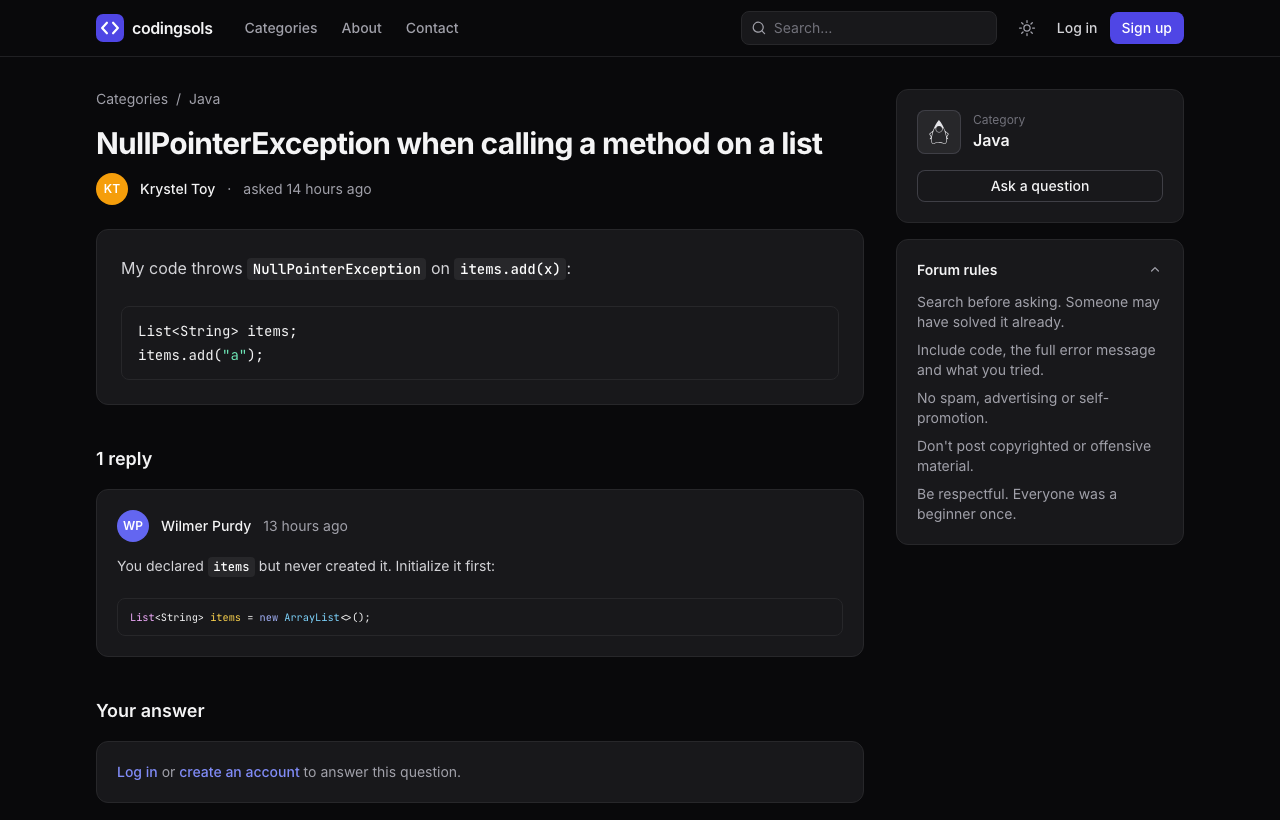
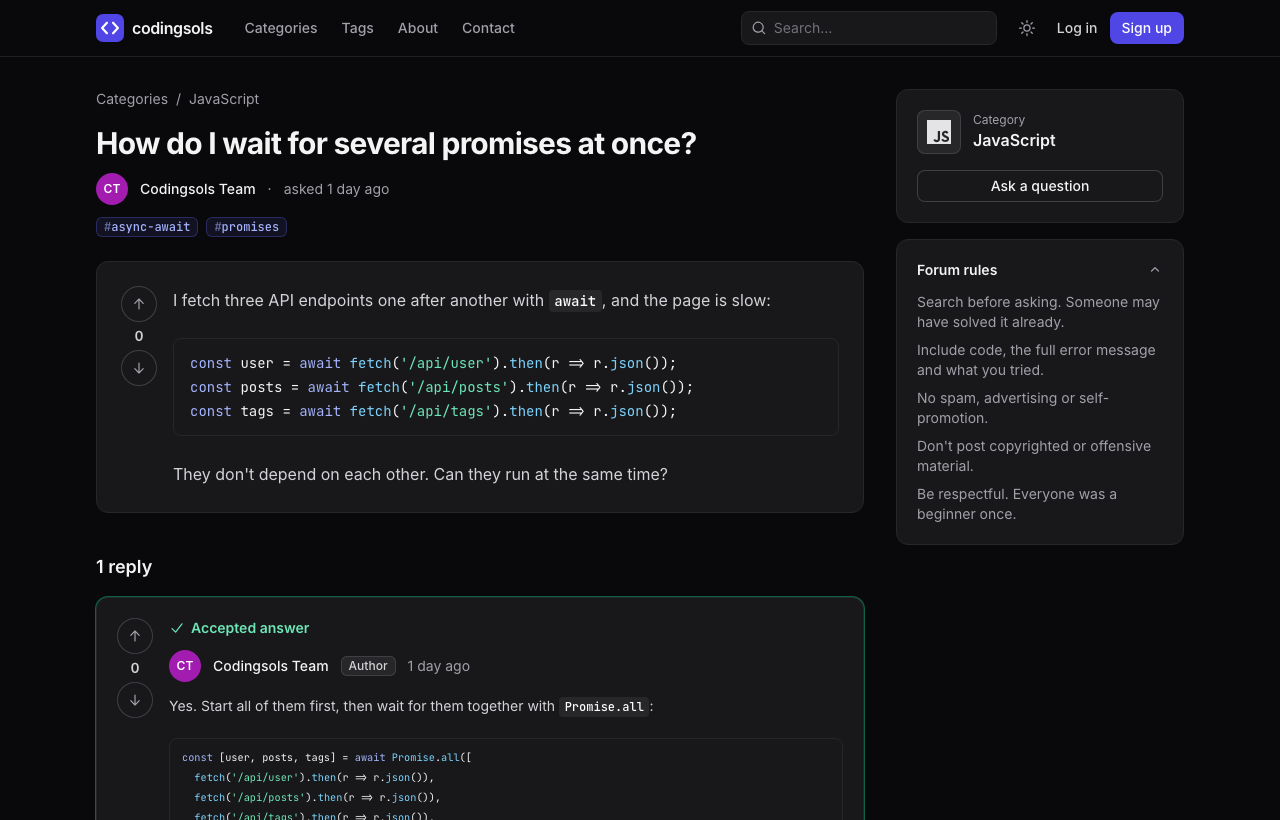
Refresh README for the live site
Link the live site, point the roadmap at the current milestone instead
of features that have shipped, expand the project structure section and
retake the screenshots with realistic content.

diff --git a/README.md b/README.md
@@ -2,6 +2,8 @@
 
 A community forum where programmers ask questions, share answers and help each other level up.
 
+**Live site: [codingsols.vercel.app](https://codingsols.vercel.app)**
+
 [![CI](https://github.com/nevil-codes/codingsols/actions/workflows/ci.yml/badge.svg)](https://github.com/nevil-codes/codingsols/actions/workflows/ci.yml)
 [![License: MIT](https://img.shields.io/badge/license-MIT-blue.svg)](LICENSE)
 
@@ -35,7 +37,8 @@ A community forum where programmers ask questions, share answers and help each o
 | Database | SQLite locally, PostgreSQL in production (tested in CI on both) |
 | Testing | Pest, Laravel Pint |
 | CI | GitHub Actions: Pint, tests on SQLite and PostgreSQL, Docker image smoke test |
-| Deployment | Vercel (serverless PHP) or Docker (Nginx + PHP-FPM, queue worker, scheduler) |
+| Email | Resend |
+| Deployment | Vercel (serverless PHP) with Neon PostgreSQL, or Docker (Nginx + PHP-FPM, queue worker, scheduler) |
 
 ## Getting started
 
@@ -108,18 +111,23 @@ vendor/bin/pint --test  # code style check
 ## Project structure
 
 ```
-app/Http/Controllers   Home, categories, threads, comments, search, contact
-app/Models             Category, Thread, Comment, ContactMessage, User
-app/Policies           Who can edit or delete threads and comments
-database/seeders       Categories, plus demo content for local development
-resources/views        Blade pages and reusable components (resources/views/components)
-tests/Feature          HTTP tests for every feature
-legacy/                The original plain-PHP version, kept for reference
+app/Http/Controllers         Forum pages: categories, threads, replies, votes, tags, search, contact
+app/Http/Controllers/Admin   Admin area: reports queue, categories, contact messages
+app/Http/Middleware          Security headers, honeypot and Turnstile spam checks
+app/Models                   Category, Thread, Comment, Tag, Vote, Report, ContactMessage, User
+app/Policies                 Who can edit, delete, vote on, accept, lock or report what
+app/Search                   Scout engine that matches every search word in titles, bodies and replies
+database/seeders             Categories, plus demo content for local development
+resources/views              Blade pages and reusable components (resources/views/components)
+tests/Feature                HTTP tests for every feature
+api/index.php, vercel.json   Vercel entry point and configuration
+Dockerfile                   Production image for container hosts
+legacy/                      The original plain-PHP version, kept for reference
 ```
 
 ## Roadmap
 
-Planned work is tracked in [GitHub issues](https://github.com/nevil-codes/codingsols/issues) and [milestones](https://github.com/nevil-codes/codingsols/milestones): tags, voting and accepted answers, moderation tools, and deployment.
+Planned work is tracked in [GitHub issues](https://github.com/nevil-codes/codingsols/issues). The current milestone, [v2.2 Launch polish & community](https://github.com/nevil-codes/codingsols/milestone/4), covers reply notifications, reputation and badges, bookmarks, a sitemap, profile pictures and a custom domain.
 
 ## Contributing
 
